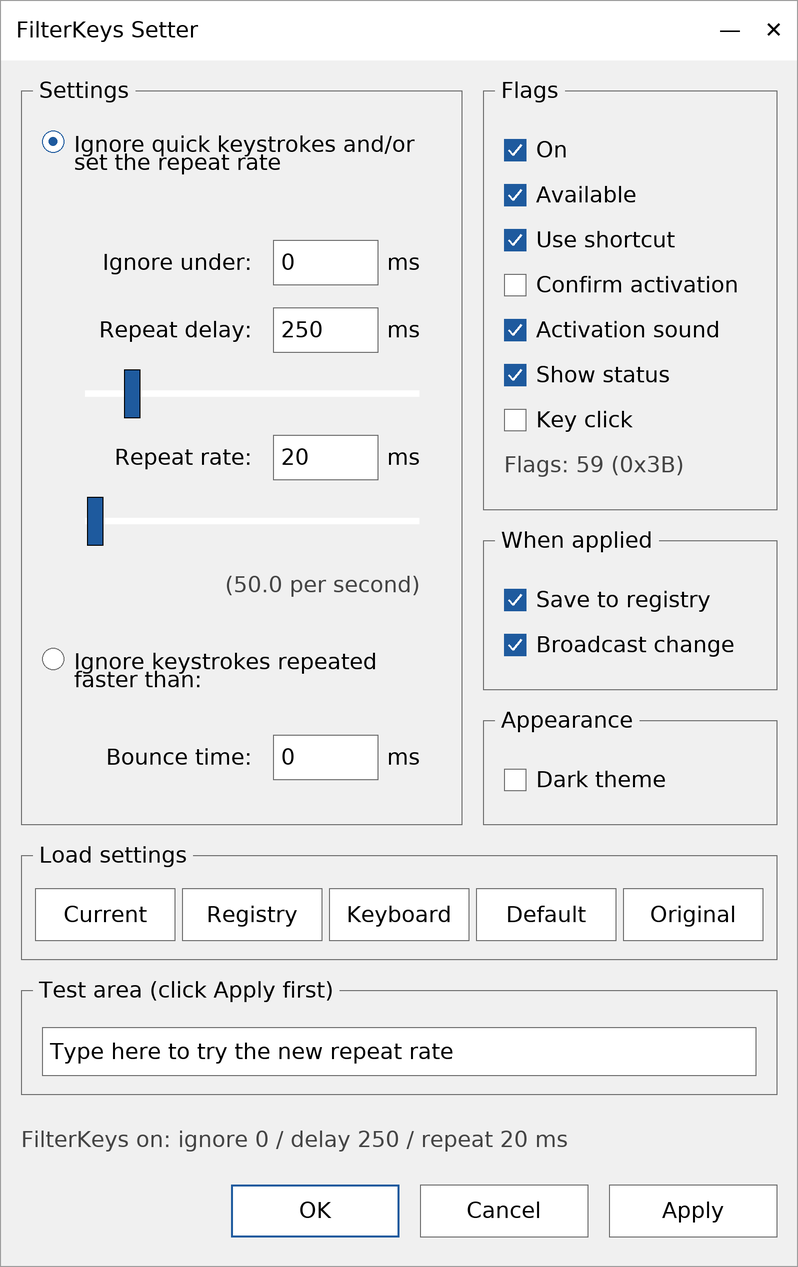
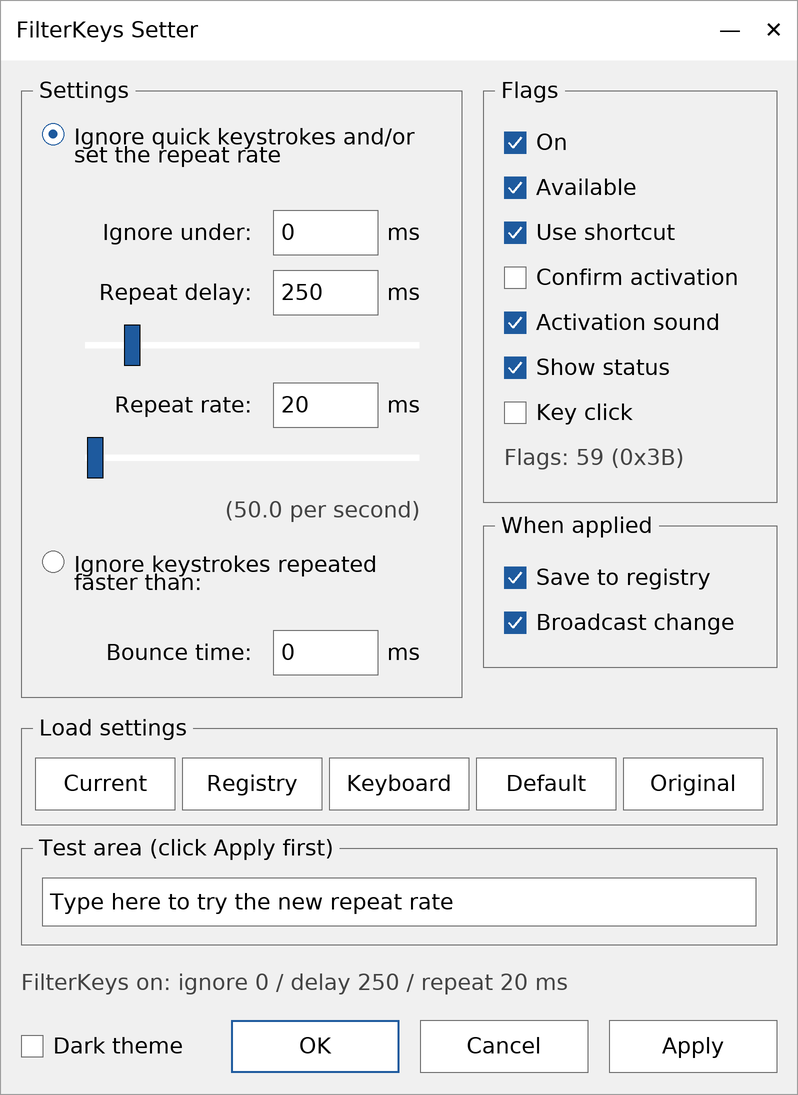
Compact the dialog from 322 to 276 DLU
The larger dialog font had inflated the window to 399 x 604 px at 100 %.
Tighter row pitch, 12 DLU sliders and slimmer group boxes take back 24 DLU;
dropping the Appearance frame around the single Dark theme check box, which
now sits beside OK, takes another 22 and makes the right column end level
with the left one.

Coordinates only: z-order, tab order and DDX_Radio are untouched. Layout
checker clean, previews in docs/img regenerated.

diff --git a/docs/UI-UPGRADE.md b/docs/UI-UPGRADE.md
@@ -49,7 +49,7 @@ White on `#0A2342` is roughly 15:1, comfortably past the 4.5:1 requirement.
 ```
 Theme.h / Theme.cpp        new — palette, brushes, gradient, title bar, high contrast
 FilterKeysSetterDlg.h/.cpp theming, sliders, tooltips, status line, About box
-FilterKeysSetter.rc        Segoe UI, new layout (228 × 322 DLU), control order
+FilterKeysSetter.rc        Segoe UI, new layout (228 × 276 DLU), control order
 resource.h                 IDC_DELAY_SLIDER, IDC_REPEAT_SLIDER, IDC_DARKTHEME,
                            IDC_STATUS; IDC_EDIT1 renamed to IDC_TEST_EDIT
 FilterKeysSetter.vcxproj   Theme.* added, manifest wired up, DPI awareness,
@@ -154,6 +154,28 @@ whether the MFC component is installed, and builds `FilterKeysSetter.vcxproj`
 rather than the solution -- the `.vdproj` and its extension have no bearing on
 whether the application compiles. Errors and warnings from every platform are
 collected into one list at the end.
+
+## Compacting the dialog
+
+After the font change the dialog had grown to 228 × 322 DLU (399 × 604 px at
+100 %), with more air than content in places. It is now **228 × 276 DLU**
+(399 × 518 px), roughly 15 % shorter, without dropping a single control:
+
+| Change | DLU saved |
+| --- | --- |
+| Row pitch in the *Settings* group 18 → 16, first row moved up | 14 |
+| Slider height 14 → 12, gap to the edit above tightened | 6 |
+| *Load settings* and *Test area* group boxes 30 → 28 high | 4 |
+| *Appearance* group box dropped; *Dark theme* moved beside *OK* | 22 |
+
+The *Appearance* frame carried a single check box, and its caption said
+nothing that *Dark theme* did not already say. Next to the *OK* button the
+check box is just as easy to find, and the right-hand column now ends level
+with the left one.
+
+Nothing moved in z-order, so the tab order and `DDX_Radio` are untouched; only
+coordinates changed. Verified with `tools/check-dialog-layout.py` (clean) and
+`tools/render-dialog.py`.
 
 ## Dialog preview
 

diff --git a/README.md b/README.md
@@ -23,7 +23,7 @@ Original version 1.02 from Soarer's article [FilterKeys Setter... for a faster k
 
 The dialog ships with a dark theme built from the palette of the application
 icon (`#0A2342` background, `#1E5A9E` gradient, `#4B9BEE` accent). Clear the
-*Dark theme* check box in the *Appearance* group to fall back to the native
+*Dark theme* check box next to the *OK* button to fall back to the native
 light look; the choice is remembered in
 `HKEY_CURRENT_USER\Software\FilterKeysSetter\Theme`.
 
